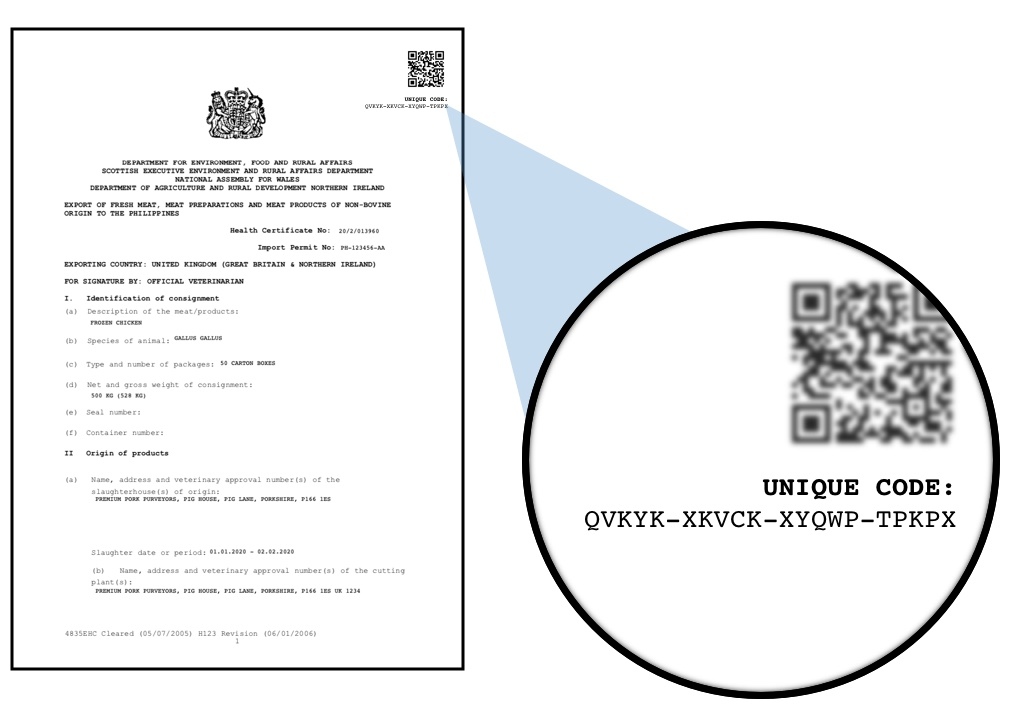
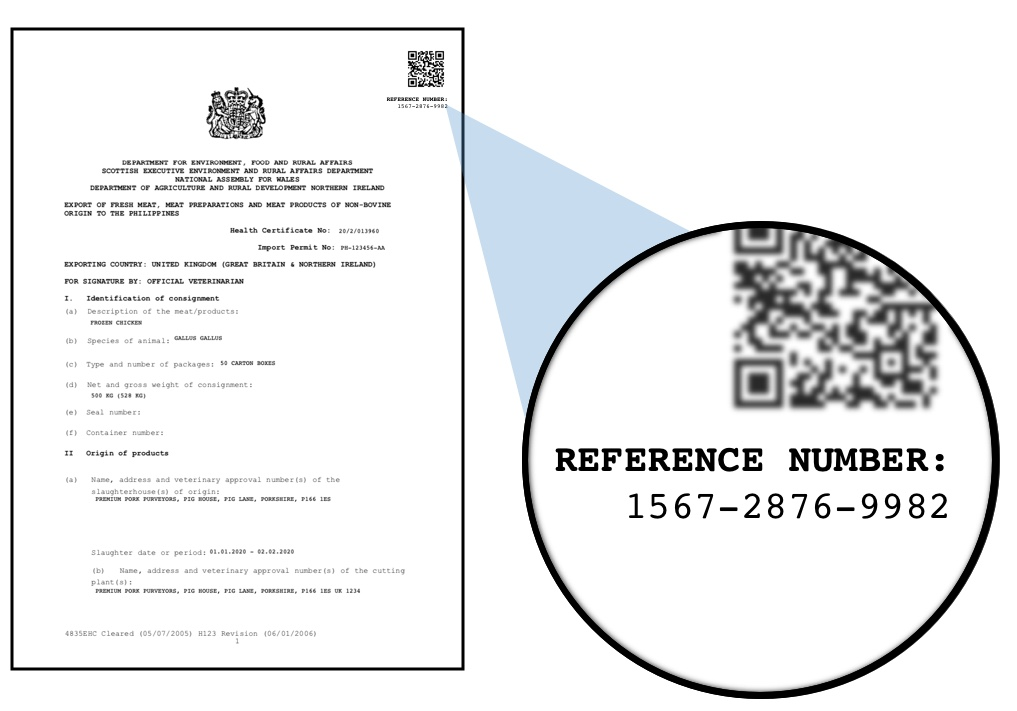
replace illustrations with reference number rather than unique code

Changed region(s): [[0.5487, 0.3094, 0.9449, 0.7426], [0.3658, 0.1238, 0.4267, 0.1547]]

diff --git a/app/views/check-ehc/valid.html b/app/views/check-ehc/valid.html
@@ -23,7 +23,7 @@ Certificate is valid - Check an export health certificate - GOV.UK
            Yes, this certificate is valid
          </h1>
          <div class="govuk-panel__body">
-           The certificate number is <br><strong>20/02/013960</strong>
+           The certificate number is <br><strong>20/2/013960</strong>
          </div>
        </div>
 
